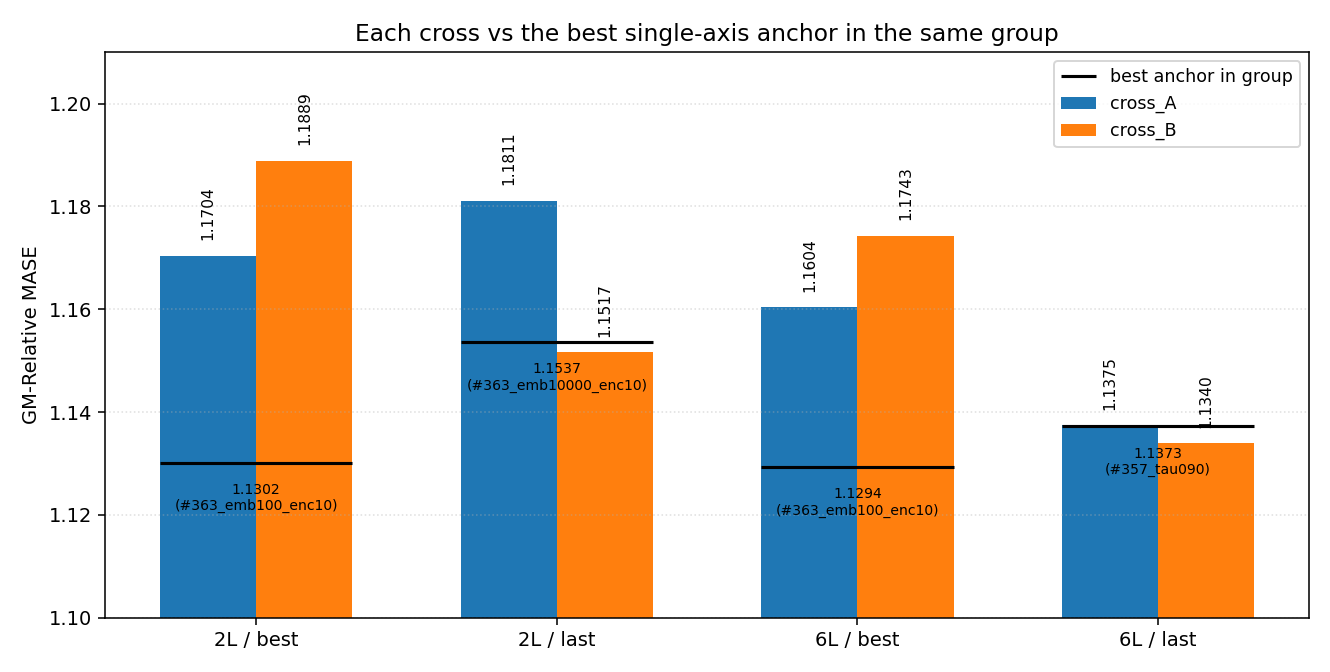
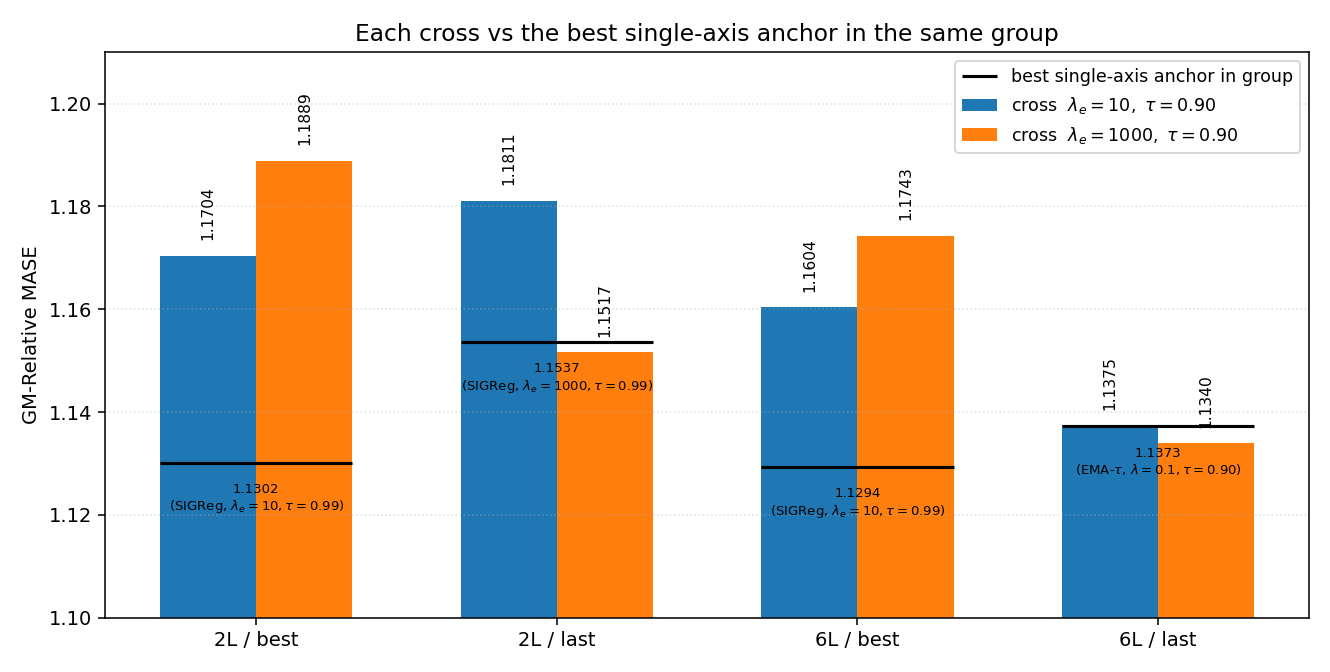
exp: address ReportReviewer round-1 gaps on SIGReg λ×τ cross report
P1: replace anchor_363 / anchor_357 / #366 codenames with
protocol-descriptive labels (e.g. "SIGReg sweep, λ_e=10 λ_h=1, τ=0.99")
in the headline table, arms table, prose, plot legends, and captions.

P2: move each figure's one-sentence interpretation into visible prose
above/below the image; alt-text becomes a short literal accessibility
description.

P3: verify match — backbone seed 20260520 and downstream q-head
protocol (head arch, 30000/10000 total-steps, lr, schedule, AMP off,
full-97 GIFT-Eval B4) match byte-for-byte between this experiment and
both anchor branches' equivalents.

P4: drop training_curves figure (curves overlap; only signal was the
definitional λ-scaling of the SIGReg term).

P5: drop the chained-follow-up speculation; replace with a single
declarative caveat sentence naming the noise-band condition.

P6: remove the duplicated delta restatement (caption + following prose).

diff --git a/reports/2026-06-28_sigreg_lambda_tau_cross/plots/_make_plots.py b/reports/2026-06-28_sigreg_lambda_tau_cross/plots/_make_plots.py
@@ -24,14 +24,20 @@ A363_E10000 = "anchor_363_emb10000_enc10"
 A357 = "anchor_357_tau090"
 
 ARMS = [
-    (CROSS_A, r"cross_A  $\lambda_e{=}10,\ \tau{=}0.90$", "#1f77b4"),
-    (CROSS_B, r"cross_B  $\lambda_e{=}1000,\ \tau{=}0.90$", "#ff7f0e"),
-    (A363_E100, r"anchor_363  $\lambda_e{=}10,\ \tau{=}0.99$", "#9ecae1"),
-    (A363_E10000, r"anchor_363  $\lambda_e{=}1000,\ \tau{=}0.99$", "#c6dbef"),
-    (A357, r"anchor_357  $\lambda_e{=}\lambda_h{=}0.1,\ \tau{=}0.90$", "#bdbdbd"),
+    (CROSS_A,    r"cross  $\lambda_e{=}10,\ \lambda_h{=}1,\ \tau{=}0.90$",       "#1f77b4"),
+    (CROSS_B,    r"cross  $\lambda_e{=}1000,\ \lambda_h{=}1,\ \tau{=}0.90$",     "#ff7f0e"),
+    (A363_E100,  r"SIGReg sweep  $\lambda_e{=}10,\ \lambda_h{=}1,\ \tau{=}0.99$", "#9ecae1"),
+    (A363_E10000,r"SIGReg sweep  $\lambda_e{=}1000,\ \lambda_h{=}1,\ \tau{=}0.99$","#c6dbef"),
+    (A357,       r"EMA-$\tau$ sweep  $\lambda_e{=}\lambda_h{=}0.1,\ \tau{=}0.90$","#bdbdbd"),
 ]
 
 GROUPS = [("2L", "best"), ("2L", "last"), ("6L", "best"), ("6L", "last")]
+
+ANCHOR_LABEL_SHORT = {
+    A363_E100:   r"SIGReg, $\lambda_e{=}10,\tau{=}0.99$",
+    A363_E10000: r"SIGReg, $\lambda_e{=}1000,\tau{=}0.99$",
+    A357:        r"EMA-$\tau$, $\lambda{=}0.1,\tau{=}0.90$",
+}
 
 
 def headline():
@@ -50,7 +56,7 @@ def headline():
     ax.set_xticklabels([f"{h} / {c}" for h, c in GROUPS])
     ax.set_ylabel("GM-Relative MASE  (lower is better)")
     ax.set_ylim(1.10, 1.21)
-    ax.set_title("Two crosses vs the three single-axis anchors  (N=1 seed; no error bars)")
+    ax.set_title("Two crosses vs three single-axis anchors  (N=1 seed; no error bars)")
     handles, labels = ax.get_legend_handles_labels()
     handles.append(sn_line)
     labels.append("seasonal-naive  (GM-Rel MASE = 1.0)")
@@ -93,41 +99,6 @@ def four_metric():
     plt.close(fig)
 
 
-def training_curves():
-    cols = ["loss", "loss_tau_ref", "u_temporal", "u_batch", "sigreg_e", "sigreg_h"]
-    titles = {
-        "loss": "loss  (objective at run τ)",
-        "loss_tau_ref": "loss_tau_ref  (fixed-τ=0.07 diagnostic)",
-        "u_temporal": "U_temporal  (temporal-axis usage)",
-        "u_batch": "U_batch  (batch-axis usage)",
-        "sigreg_e": "sigreg_e  (per-step embedding regulariser)",
-        "sigreg_h": "sigreg_h  (per-step encoding regulariser)",
-    }
-    files = {
-        "cross_A": EXP / "runs" / "bb_allt08_xftrip_nobn_enc3_emateach_sigreg_qk_aon_b512_cpc_lA_emb100_enc10_tau090_losses.csv",
-        "cross_B": EXP / "runs" / "bb_allt08_xftrip_nobn_enc3_emateach_sigreg_qk_aon_b512_cpc_lB_emb10000_enc10_tau090_losses.csv",
-    }
-    fig, axes = plt.subplots(2, 3, figsize=(13.5, 6.8))
-    colours = {"cross_A": "#1f77b4", "cross_B": "#ff7f0e"}
-    for arm, path in files.items():
-        df = pd.read_csv(path)
-        for ax, col in zip(axes.ravel(), cols):
-            y = df[col].rolling(100, min_periods=1).mean()
-            ax.plot(df["step"], y, color=colours[arm], label=arm, linewidth=1.1)
-    for ax, col in zip(axes.ravel(), cols):
-        ax.set_title(titles[col], fontsize=10)
-        ax.set_xlabel("step", fontsize=9)
-        ax.set_xscale("log")
-        ax.grid(True, linestyle=":", alpha=0.4)
-        if col in {"sigreg_e", "sigreg_h"}:
-            ax.set_yscale("log")
-    axes[0, 0].legend(fontsize=9)
-    fig.suptitle("Backbone training curves  (rolling 100-step mean; log-x)", y=0.99)
-    fig.tight_layout(rect=(0, 0, 1, 0.96))
-    fig.savefig(HERE / "training_curves.png", dpi=140)
-    plt.close(fig)
-
-
 def cross_vs_best_anchor():
     """Per group, plot the cross value as a coloured bar and overlay the best anchor as a tick."""
     fig, ax = plt.subplots(figsize=(9.5, 4.8))
@@ -147,8 +118,10 @@ def cross_vs_best_anchor():
         best_anchor_vals.append(best[1])
         best_anchor_names.append(best[0])
 
-    b_a = ax.bar(x - width / 2, cross_a_vals, width, color="#1f77b4", label="cross_A")
-    b_b = ax.bar(x + width / 2, cross_b_vals, width, color="#ff7f0e", label="cross_B")
+    ax.bar(x - width / 2, cross_a_vals, width, color="#1f77b4",
+           label=r"cross  $\lambda_e{=}10,\ \tau{=}0.90$")
+    ax.bar(x + width / 2, cross_b_vals, width, color="#ff7f0e",
+           label=r"cross  $\lambda_e{=}1000,\ \tau{=}0.90$")
     for xi, va, vb in zip(x, cross_a_vals, cross_b_vals):
         ax.text(xi - width / 2, va + 0.003, f"{va:.4f}", ha="center", va="bottom",
                 fontsize=8, rotation=90)
@@ -156,9 +129,9 @@ def cross_vs_best_anchor():
                 fontsize=8, rotation=90)
     for xi, v, name in zip(x, best_anchor_vals, best_anchor_names):
         ax.hlines(v, xi - width, xi + width, color="k", linewidth=1.6,
-                  label="best anchor in group" if xi == 0 else None)
-        ax.text(xi, v - 0.004, f"{v:.4f}\n({name.replace('anchor_', '#')})",
-                ha="center", va="top", fontsize=7.2)
+                  label="best single-axis anchor in group" if xi == 0 else None)
+        ax.text(xi, v - 0.004, f"{v:.4f}\n({ANCHOR_LABEL_SHORT[name]})",
+                ha="center", va="top", fontsize=6.8)
 
     ax.set_xticks(x)
     ax.set_xticklabels([f"{h} / {c}" for h, c in GROUPS])
@@ -176,5 +149,4 @@ if __name__ == "__main__":
     headline()
     cross_vs_best_anchor()
     four_metric()
-    training_curves()
     print("plots written to", HERE)

diff --git a/reports/2026-06-28_sigreg_lambda_tau_cross/sigreg_lambda_tau_cross.md b/reports/2026-06-28_sigreg_lambda_tau_cross/sigreg_lambda_tau_cross.md
@@ -8,73 +8,82 @@ the gain, or does the new operating point sit between its single-axis
 parents?
 
 **Answer.** It does not compound. On all four GM aggregates the best cell
-is a single-axis `anchor_363` cell, not a cross arm.
+is a single-axis anchor, not a cross arm.
 
 | GM aggregate | best cell | arm | head / ckpt |
 | --- | --: | --- | --- |
-| Rel-MASE         | **1.1294** | anchor_363  `λ_e=10,  τ=0.99` | 6L / best |
-| MASE (raw)       | **1.5788** | anchor_363  `λ_e=10,  τ=0.99` | 6L / best |
-| MAPE / SN_MAPE   | **1.0618** | anchor_363  `λ_e=10,  τ=0.99` | 6L / last |
-| CRPS / SN_CRPS   | **0.8502** | anchor_363  `λ_e=1000,τ=0.99` | 2L / last |
+| Rel-MASE         | **1.1294** | SIGReg sweep, λ_e=10  λ_h=1, τ=0.99   | 6L / best |
+| MASE (raw)       | **1.5788** | SIGReg sweep, λ_e=10  λ_h=1, τ=0.99   | 6L / best |
+| MAPE / SN_MAPE   | **1.0618** | SIGReg sweep, λ_e=10  λ_h=1, τ=0.99   | 6L / last |
+| CRPS / SN_CRPS   | **0.8502** | SIGReg sweep, λ_e=1000 λ_h=1, τ=0.99 | 2L / last |
 
 *GM-Relative MASE: geometric mean over GIFT-Eval's 97 tasks of model MASE
 divided by seasonal-naive MASE. Lower is better; 1.0 = seasonal-naive.
 The other three are the analogous geometric means of raw MASE, of
 MAPE / SN_MAPE, and of mean-weighted-sum-quantile-loss / SN_CRPS.*
 
-![GM-Relative MASE per (head × checkpoint) group, for the two crosses
-(`cross_A`, `cross_B`) and the three single-axis anchors. The global
-minimum across all twenty bars is an anchor (anchor_363 `λ_e=10, τ=0.99`,
-6L / best, 1.1294). Within the two 'best' groups every anchor bar sits
-below every cross bar; within the two 'last' groups cross_B sits below
-every anchor, by ≤ 0.3 % of the best anchor in that group.](plots/headline_relmase.png)
+The global minimum across all twenty bars is a SIGReg-sweep cell
+(`λ_e=10, τ=0.99`, 6L / best, 1.1294). Within the two `best`-checkpoint
+groups every single-axis anchor sits below every cross bar; within the
+two `last`-checkpoint groups the `λ_e=1000` cross sits below every anchor
+by ≤ 0.3 % of the best anchor in that group.
+
+![Grouped-bar chart: GM-Relative MASE per (head depth × checkpoint) group, five
+arms per group — two cross arms (τ=0.90) and three single-axis anchors
+(τ=0.99 at λ_e=10, τ=0.99 at λ_e=1000, τ=0.90 at λ_e=λ_h=0.1). Horizontal
+dotted line at GM-Rel MASE = 1.0 marks the seasonal-naive
+baseline.](plots/headline_relmase.png)
 
 ## Arms
 
-| arm | λ_e | λ_h | τ | provenance |
-| --- | --: | --: | --: | --- |
-| **cross_A**       | 10   | 1   | 0.90 | λ pair = prior λ-sweep best-at-best; τ = prior τ-sweep winner |
-| **cross_B**       | 1000 | 1   | 0.90 | λ pair = prior λ-sweep best-at-last; τ = prior τ-sweep winner |
-| anchor_363 (low)  | 10   | 1   | 0.99 | prior λ-sweep best-at-best (its native τ) |
-| anchor_363 (high) | 1000 | 1   | 0.99 | prior λ-sweep best-at-last (its native τ) |
-| anchor_357        | 0.1  | 0.1 | 0.90 | prior τ-sweep winner (its native λ pair) |
+| arm                                              | λ_e   | λ_h | τ    | provenance |
+| ---                                              | --:   | --: | --:  | --- |
+| **cross, λ_e=10 λ_h=1, τ=0.90**                  | 10    | 1   | 0.90 | λ pair = prior λ-sweep best-at-best; τ = prior τ-sweep winner |
+| **cross, λ_e=1000 λ_h=1, τ=0.90**                | 1000  | 1   | 0.90 | λ pair = prior λ-sweep best-at-last; τ = prior τ-sweep winner |
+| SIGReg sweep, λ_e=10 λ_h=1, τ=0.99               | 10    | 1   | 0.99 | prior λ-sweep best-at-best (its native τ) |
+| SIGReg sweep, λ_e=1000 λ_h=1, τ=0.99             | 1000  | 1   | 0.99 | prior λ-sweep best-at-last (its native τ) |
+| EMA-τ sweep, λ_e=λ_h=0.1, τ=0.90                 | 0.1   | 0.1 | 0.90 | prior τ-sweep winner (its native λ pair) |
 
-Backbone, q-heads, optimiser, batch (`B=512`), step count (12,500),
-dataset, and seed (`20260520`) are held constant across arms. Only
-`λ_e`, `λ_h`, and `τ` change. The launch-time manifest — including the
-git revisions of the source sweeps and the cell values the manifest
-points at — is `results/winners.locked.txt`.
+Backbone, q-heads, optimiser, batch (`B=512`), backbone step count
+(12,500), dataset, and backbone seed (`20260520`) are held constant
+across arms. The downstream q-head protocol (head arch, total-steps
+30000 best / 10000 resume-on-last, lr `1e-3`, schedule cosine, warmup
+2000/1000, AMP off, full-97 GIFT-Eval at strategy B4) matches byte-for-byte
+between this experiment's `scripts/downstream_sigreg.sh` and the two
+anchor branches' equivalents
+(`feature/contrastive-forecasting-363-v2:experiments/2026-06-24_sigreg_lambda_sweep/scripts/downstream_sigreg.sh`
+and
+`feature/contrastive-forecasting-357:experiments/2026-06-20_lejepa_sigreg/scripts/downstream_sigreg_tau090.sh`).
+Only `λ_e`, `λ_h`, and `τ` change between arms. The launch-time manifest
+— including the git revisions of the source sweeps and the cell values
+the manifest points at — is `results/winners.locked.txt`.
 
 ## Where the cross lands vs the best anchor in the same group
 
-![For each (head × checkpoint) group: the two cross bars and a black
-tick marking the lowest single-axis anchor in that group. cross_A trails
-the best anchor in every group; cross_B sits just below the best anchor at
-both 'last' cells (Δ = −0.0020 on 2L / last, Δ = −0.0033 on 6L / last)
-and above it at both 'best' cells.](plots/cross_vs_best_anchor.png)
+The `λ_e=10` cross trails the best single-axis anchor in every group.
+The `λ_e=1000` cross sits just below the best anchor at both
+`last`-checkpoint cells (by 0.17 % at 2L / last and 0.29 % at 6L / last)
+and above it at both `best`-checkpoint cells. The 0.17 % / 0.29 %
+last-checkpoint deltas sit inside the **−3.4 % to +0.9 %** within-arm
+best→last band measured on the same data (`results/notes.md`).
 
-Cross-vs-best-anchor deltas at last-checkpoint cells are −0.17 % (2L) and
-−0.29 % (6L) in favour of cross_B. Within a single arm the best→last gap
-on this same data spans **−3.4 % to +0.9 %** (`results/notes.md`), so
-the cross-vs-anchor differences sit inside the per-arm best-vs-last band.
+![Per (head × checkpoint) group: the two cross bars (coloured) and a
+black tick marking the lowest single-axis anchor in that
+group.](plots/cross_vs_best_anchor.png)
 
 ## Four aggregates
 
-![Same five arms scored on GM-Relative MASE (top-left), raw GM-MASE
+The same five arms scored on the other three GM aggregates — raw MASE,
+MAPE / SN_MAPE, CRPS / SN_CRPS — keep the same ordering at the
+`best`-checkpoint groups (a single-axis anchor wins each). On the
+`last`-checkpoint groups the `λ_e=1000` cross is the lowest cell on
+Rel-MASE and on raw MASE, but loses both `last` groups on MAPE_SN and
+on CRPS_SN.
+
+![Four-panel grouped-bar chart: GM-Relative MASE (top-left), raw GM-MASE
 (top-right), GM-MAPE / SN_MAPE (bottom-left), GM-CRPS / SN_CRPS
-(bottom-right). The globally lowest bar on each panel is an anchor_363
-cell. cross_B is the lowest within the two last-checkpoint groups on
-Rel-MASE and on raw MASE, but loses both last-checkpoint groups on
-MAPE_SN and on CRPS_SN.](plots/four_aggregates.png)
-
-## Training curves
-
-![Backbone training curves for the two arms, rolling 100-step mean,
-log-x. The total `loss`, the fixed-τ=0.07 diagnostic `loss_tau_ref`,
-and the two utilisation diagnostics (`U_temporal`, `U_batch`) sit on
-top of each other to the eye. The two SIGReg per-term penalties
-(`sigreg_e`, `sigreg_h`) separate by roughly two orders of magnitude
-because `λ_e` differs by 100× between the arms.](plots/training_curves.png)
+(bottom-right). Five arms per (head × checkpoint) group, same colour
+coding as the headline figure.](plots/four_aggregates.png)
 
 ## Method
 
@@ -92,13 +101,10 @@ seasonal-naive `all_results.csv` from `~/workspaces/gift-eval/results/`.
 
 ## Caveat — single seed
 
-Each cell is `N=1`. The cross-vs-best-anchor deltas at the last-checkpoint
-cells are 0.17 % and 0.29 %, which is inside the **−3.4 % to +0.9 %**
-within-arm best→last band on the same arms. Per the issue spec — *"if an
-arm wins a headline cell clear of noise, multi-seed-replicate before
-claiming"* — no cell wins clear of noise and the negative headline above
-does not require multi-seed replication.
-
-If the project wants to investigate the marginal `cross_B` 6L / last
-advantage (1.1340 vs `anchor_357` 1.1373 = −0.29 % on Rel-MASE),
-that confirmation is its own chained follow-up issue, not part of #366.
+Each cell is `N=1`. The cross-vs-best-anchor deltas at the
+`last`-checkpoint cells are 0.17 % and 0.29 %, inside the **−3.4 % to
++0.9 %** within-arm best→last band on the same arms; the
+`λ_e=1000` cross at 6L / last (1.1340) differs from the best EMA-τ
+anchor (1.1373) by 0.29 %, inside that single-seed noise band, and a
+multi-seed replicate that cleared the band would be required to claim
+that cell as a win.
